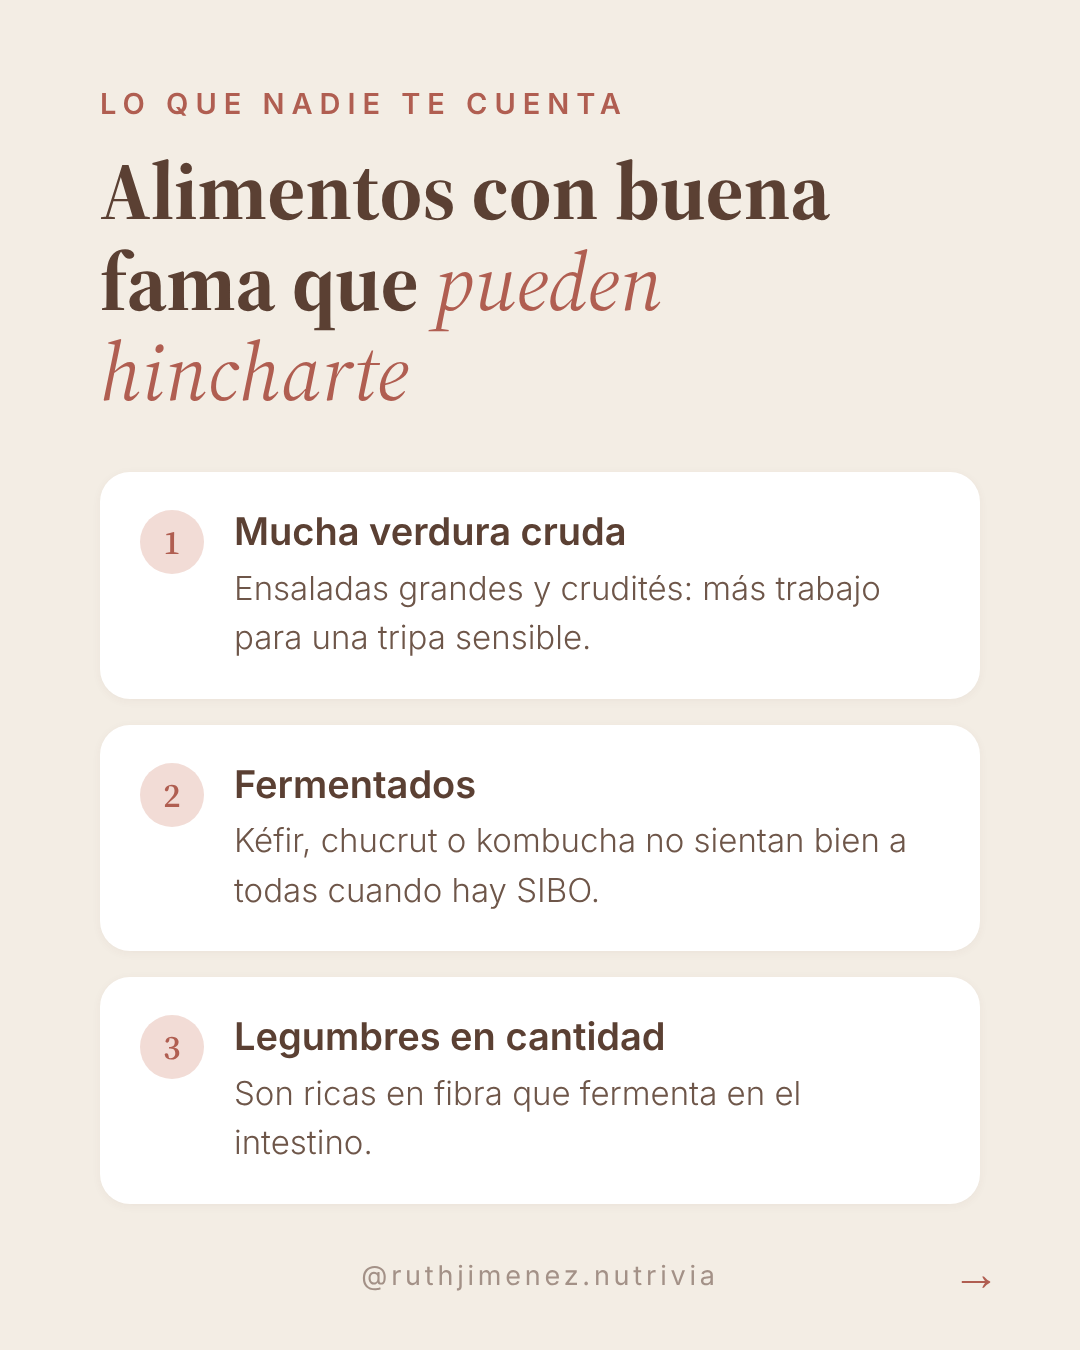
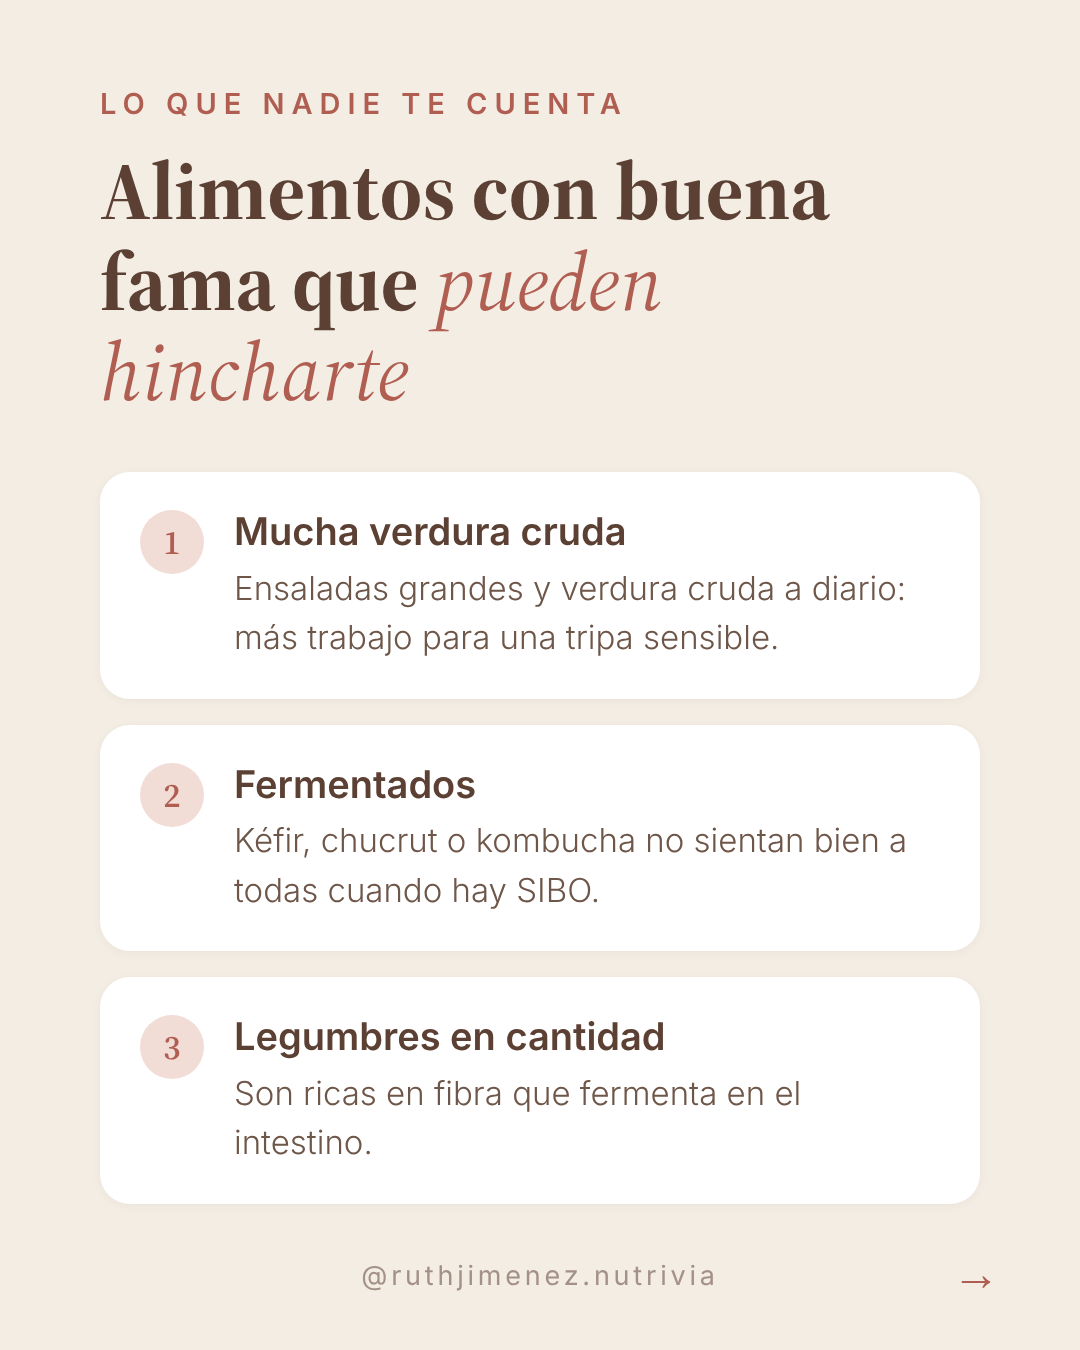
Carrusel 27 nov: quitar «crudités»
Claude-Session: https://claude.ai/code/session_01BJhanGQbqMstPra7Cbo7cp

Changed region(s): [[0.2139, 0.4044, 0.825, 0.4978]]

diff --git a/diciembre/generar-carruseles.js b/diciembre/generar-carruseles.js
@@ -26,7 +26,7 @@ const carruseles = [
         ['Y aun así acabas hinchada', 'No es dejadez ni falta de esfuerzo.'],
       ] },
       { tipo: 'tarjetas', kicker: 'Lo que nadie te cuenta', titulo: 'Alimentos con buena fama que *pueden hincharte*', icono: 'num', tarjetas: [
-        ['Mucha verdura cruda', 'Ensaladas grandes y crudités: más trabajo para una tripa sensible.'],
+        ['Mucha verdura cruda', 'Ensaladas grandes y verdura cruda a diario: más trabajo para una tripa sensible.'],
         ['Fermentados', 'Kéfir, chucrut o kombucha no sientan bien a todas cuando hay SIBO.'],
         ['Legumbres en cantidad', 'Son ricas en fibra que fermenta en el intestino.'],
       ] },
